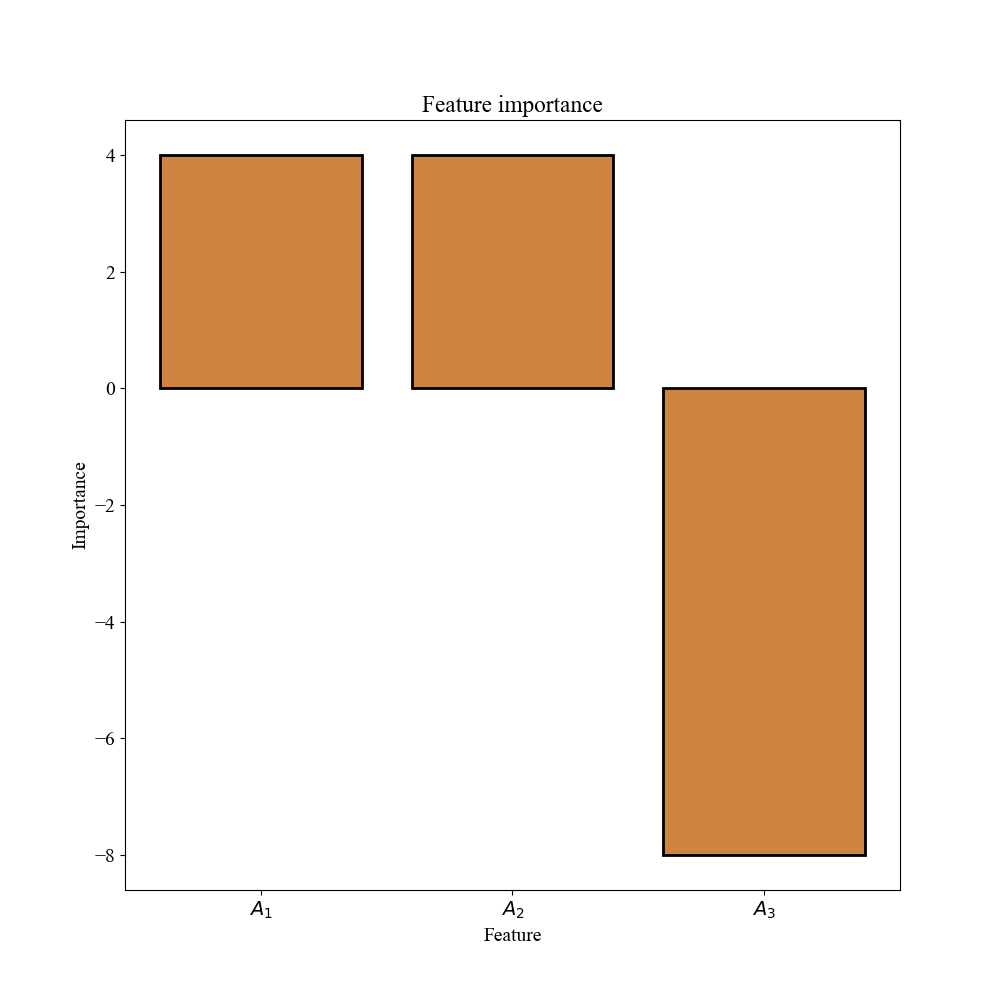
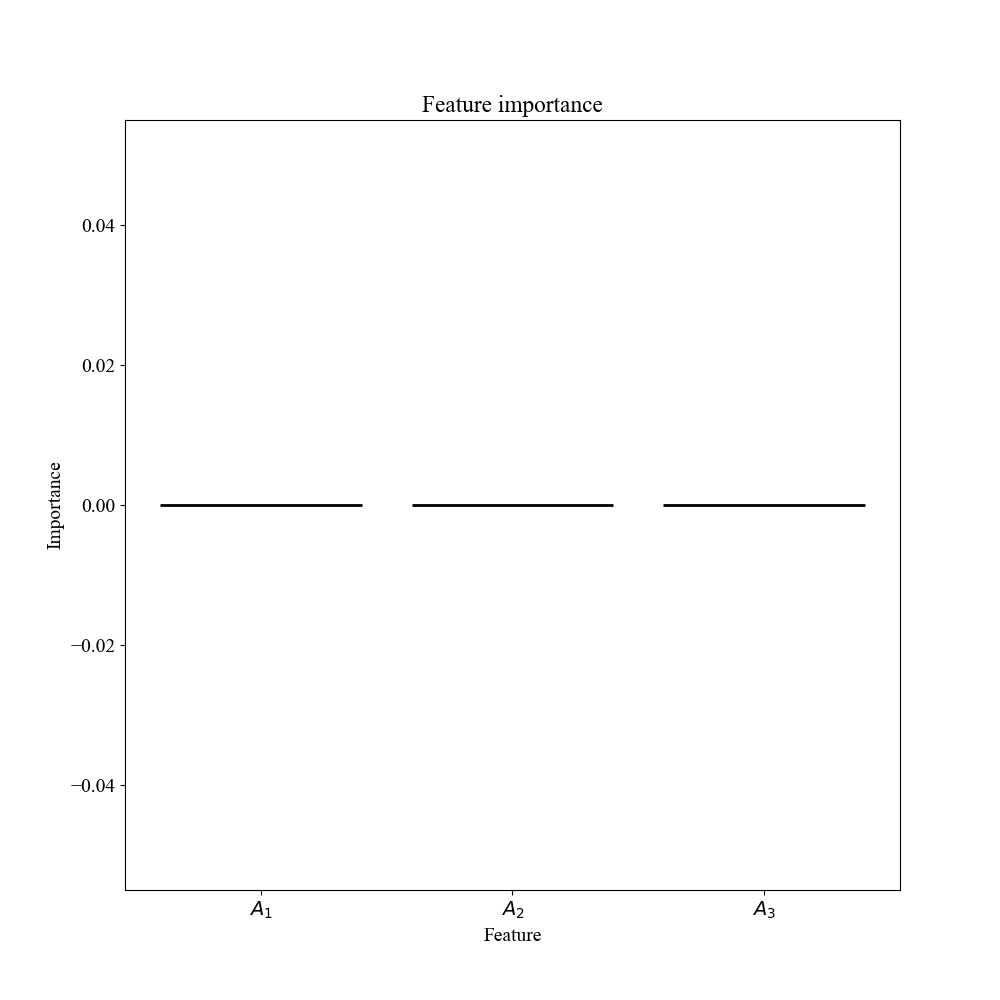
Checking Relief-F, I dont know what to do!

diff --git a/code/rba.py b/code/rba.py
@@ -1,5 +1,7 @@
 import numpy as np
-
+# I will be importing pdist and squareform just like we did in Multivariate Statistical Analysis, 
+# I hope in the near future to change this!
+from scipy.spatial.distance import pdist, squareform
 class relief(object):
     """author: cesar augusto sanchez-villalobos @cesarasa.
 
@@ -41,6 +43,8 @@ class relief(object):
             miss = self.get_nearest_miss(x_i, y_i)
             # Update the weights: 
             self.weights -= ((x_i - hit)**2 - (x_i - miss)**2)/self.N
+            print(self.weights)
+            print(((x_i - hit)**2))
             # print('Instance: ')
             # print(x_i)
             # print('Hit: ')
@@ -110,6 +114,60 @@ class relief_f(object):
         self.k = k
 
     def fit(self, X, y):
-        pass
+        self.X = X
+        n, p = self.X.shape
+        self.y = y
+        # Get the classes:
+        classes = np.unique(y)
+        # Compute all the distances:
+        distances = self.compute_distances()
+        # Initialize the weights: 
+        self.weights = np.zeros(p)
+        for i in range(n):
+            # Get the current instance: 
+            x_i = X[i, :].reshape(1, -1)
+            y_i = y[i]
+            # Get the nearest hits and misses: 
+            hits = self.get_nearest_hits(x_i, y_i, distances, k=self.k, i = i).reshape(self.k, -1)
+            misses = self.get_nearest_miss(x_i, y_i, distances, k=self.k, i = i).reshape(self.k, -1)
+            # Update the weights:
+            # This works if we have only one hits and one miss: self.weights -= np.sum((x_i - hits)**2, axis=0) - np.sum((x_i - misses)**2, axis=0)
+            # This works if we have more than one hits and misses:
+            for j in range(p):
+                for k in range(self.k):
+                    avg_hit = np.sum(hits[:, j])/self.k
+                    print(avg_hit)
+                    break
+                    avg_miss = np.sum(misses[:, j])/self.k
+                #self.weights[j] -= (x_i[ j] - avg_hit)**2 - (x_i[ j] - avg_miss)**2
+                break
+        # Get the indices of the features to keep:
+        self.indices = np.argsort(self.weights)[::-1][:self.n_features_to_keep]
+        # Resulting dataset is:
+        self.X_new = self.X[:, self.indices]
+
+    
+    def compute_distances(self):
+        return squareform(pdist(self.X, 'cityblock'))
+    
+    def get_nearest_hits(self, x_i, y_i, distances, k, i):
+        hits = self.X[self.y == y_i]
+        distance = distances[i, :]
+        distance = distance[self.y == y_i]
+        hits = np.delete(hits, np.where((hits == x_i).all(axis=1))[0], axis=0)
+        distance = distance[distance != 0]
+        hits = hits[np.argsort(distance)]
+        nearest_hits = hits[:k]
+        return nearest_hits
+    
+    def get_nearest_miss(self, x_i, y_i, distances, k, i):
+        miss = self.X[self.y != y_i]
+        distance = distances[i, :]
+        distance = distance[self.y != y_i]
+        miss = np.delete(miss, np.where((miss == x_i).all(axis=1))[0], axis=0)
+        distance = distance[distance != 0]
+        miss = miss[np.argsort(distance)]
+        nearest_miss = miss[:k]
+        return nearest_miss
     
 

diff --git a/test_urbanowicz_example_table_2.py b/test_urbanowicz_example_table_2.py
@@ -26,12 +26,12 @@ X = np.array([[1, 0, 1],
 N,p = X.shape
 y = np.array([1, 1, 1, 1, 0, 0, 0, 0])
 
-r = relief(n_features_to_keep=2)
+r = relief_f(n_features_to_keep=2, k = 3)
 r.fit(X, y)
 X_new = r.X_new
 
 
-print(r.weights*N)
+# print(r.weights*N)
 # Plot importance of features
 plt.figure()
 plt.bar(range(len(r.weights)), r.weights*N, color='peru', ec='k', lw=2, align='center')
